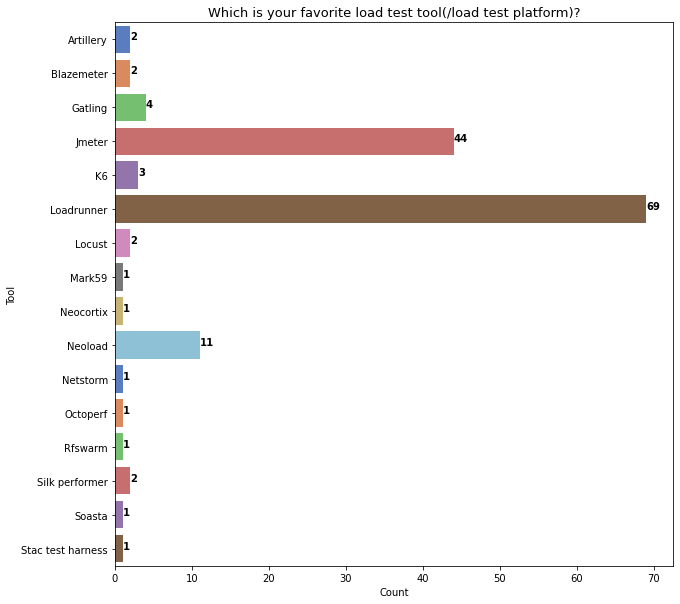
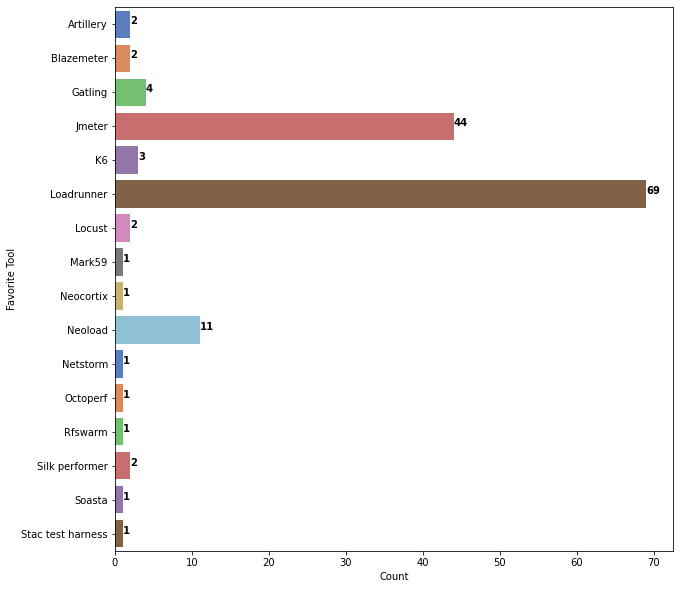
updated the script and images

diff --git a/tool_survey.py b/tool_survey.py
@@ -41,6 +41,25 @@ def split_string_in_column(file_name):
         fav_tool['value'] = fav_tool['value'].str.capitalize()
         fav_tool_table = pd.pivot_table(fav_tool, values='value',columns=['value'], aggfunc='count')
         
+        
+#        #Get Total Performance Testing Experience
+#        experience = tools_df['experience'].str.split(", ", expand = True) #split each row in the column with ", "
+#        experience=pd.melt(experience) #combine all columns into one column
+#        
+#        experience['value'] = experience['value'].str.capitalize()
+#        experience_table = pd.pivot_table(experience, values='value',columns=['value'], aggfunc='count')
+#        
+#        #Get virtual users load tested to in current engagement
+#        virtual_users = tools_df['virtual_users'].str.split(", ", expand = True) #split each row in the column with ", "
+#        virtual_users=pd.melt(virtual_users) #combine all columns into one column
+#        virtual_users.sort_values(["value"], ascending=True)
+#        
+#        virtual_users_table = pd.pivot_table(virtual_users, values='value',columns=['value'], aggfunc='count')
+#        
+#        print(virtual_users_table)
+#        virtual_users_table = virtual_users_table.T.sort_values(by ='value')
+#        print(virtual_users_table)
+        
         tools_used_chart(tools_used_table.T)
         current_tool_chart(current_tool_table.T)
         fav_tool_chart(fav_tool_table.T)
@@ -56,53 +75,45 @@ def tools_used_chart(tools_used):
     
     bar,ax = plt.subplots(figsize=(10,10))
     ax = sns.barplot(x="variable", y=tools_used.index, data=tools_used, ci=None, palette="muted",orient='h' )
-    ax.set_title("In past three years, for your work, which load test tools have you used the most?", fontsize=13)
+    #ax.set_title("In past three years, for your work, which load test tools have you used the most?", fontsize=13)
     ax.set_xlabel ("Count")
-    ax.set_ylabel ("Tool")
+    ax.set_ylabel ("Tools Used")
     for rect in ax.patches:
         ax.text (rect.get_width(), rect.get_y() + rect.get_height() / 2,"%d"% rect.get_width(), weight='bold' )
 
 def current_tool_chart(current_tool):
     bar,ax = plt.subplots(figsize=(10,10))
     ax = sns.barplot(x="variable", y=current_tool.index, data=current_tool, ci=None, palette="muted",orient='h' )
-    ax.set_title("Which load test tool are you using in your current engagement/job?", fontsize=13)
+    #ax.set_title("Which load test tool are you using in your current engagement/job?", fontsize=13)
     ax.set_xlabel ("Count")
-    ax.set_ylabel ("Tool")
+    ax.set_ylabel ("Current Tool")
     for rect in ax.patches:
         ax.text (rect.get_width(), rect.get_y() + rect.get_height() / 2,"%d"% rect.get_width(), weight='bold' )
+
 
 def fav_tool_chart(fav_tool):
     bar,ax = plt.subplots(figsize=(10,10))
     ax = sns.barplot(x="variable", y=fav_tool.index, data=fav_tool, ci=None, palette="muted",orient='h' )
-    ax.set_title("Which is your favorite load test tool(/load test platform)?", fontsize=13)
+    #ax.set_title("Which is your favorite load test tool(/load test platform)?", fontsize=13)
     ax.set_xlabel ("Count")
-    ax.set_ylabel ("Tool")
+    ax.set_ylabel ("Favorite Tool")
     for rect in ax.patches:
         ax.text (rect.get_width(), rect.get_y() + rect.get_height() / 2,"%d"% rect.get_width(), weight='bold' )
 
-
-#def print_data(t1, t2, t3):
-#    
-#    #fig, ax = plt.subplots(2,2)
-#    #ax = ax.flatten()
-#    fig, axes = plt.subplots(2, 2, figsize=(10, 10), sharey=False)
-#    
-#    bar,ax = plt.subplots(figsize=(10,10))
-#    ax = sns.barplot(ax=axes[0,0], x="variable", y=t1.index, data=t1, ci=None, palette="muted",orient='h' )
-#    ax.set_title("In past three years, for your work, which load test tools have you used the most?", fontsize=13)
-#    ax.set_xlabel ("Count")
-#    ax.set_ylabel ("Tool")
-#    for rect in ax.patches:
-#        ax.text (rect.get_width(), rect.get_y() + rect.get_height() / 2,"%d"% rect.get_width(), weight='bold' )
-#    #sns.histplot(data=t1, y="all", x='variable')
-#    
-#    fig.tight_layout(pad=2)
-#    print(t1)
-#    #sns.histplot(data=t2, y="value", x='variable')
-#    #sns.histplot(data=t3, y="value", x='variable')
-#    print(t2)
-#    print(t3)
-#           
+def experience_chart(experience):
+    bar,ax = plt.subplots(figsize=(10,6))
+    ax = sns.barplot(x=experience.index, y="variable", data=experience, ci=None, palette="muted",orient='v' )
+    #ax.set_title("How long have you been doing performance testing?", fontsize=13)
+    ax.set_xlabel ("Years of Experience")
+    ax.set_ylabel ("Count")
+    
+def virtual_users_chart(virtual_users):
+    bar,ax = plt.subplots(figsize=(12,8))
+    ax = sns.barplot(x=virtual_users.index, y="variable", data=virtual_users, ci=None, palette="muted",orient='v' )
+    #ax.set_title("How long have you been doing performance testing?", fontsize=13)
+    ax.set_xlabel ("Virtual Users")
+    ax.set_ylabel ("Count")
+   
 
 def main():
     FILE_TO_READ = "./Load_Tool_Poll.csv"  # file containing column with tool names seperated by ", ". This is a demo file

diff --git a/README.md b/README.md
@@ -9,10 +9,12 @@ Link to survey: https://docs.google.com/forms/d/e/1FAIpQLSdHZ2F2DTJtq41wH9bQHAj6
 Count of favorite load test tool
 ![Data](https://github.com/hseera/tool_survey/blob/main/images/fav_tool.png)
 
-## Current Tool
+## Which load test tool are you using in your current engagement/job?
 Count of tool that people are currently using in their load test engagement
 ![Data](https://github.com/hseera/tool_survey/blob/main/images/current_tool.png)
 
-## Tool used in Last Three Years
+## In past three years, for your work, which load test tools have you used the most?
 Count of tools that people have used in last three years
 ![Data](https://github.com/hseera/tool_survey/blob/main/images/three_years.png)
+
+## How many virtual users/threads are you using for load testing in your current engagement?
